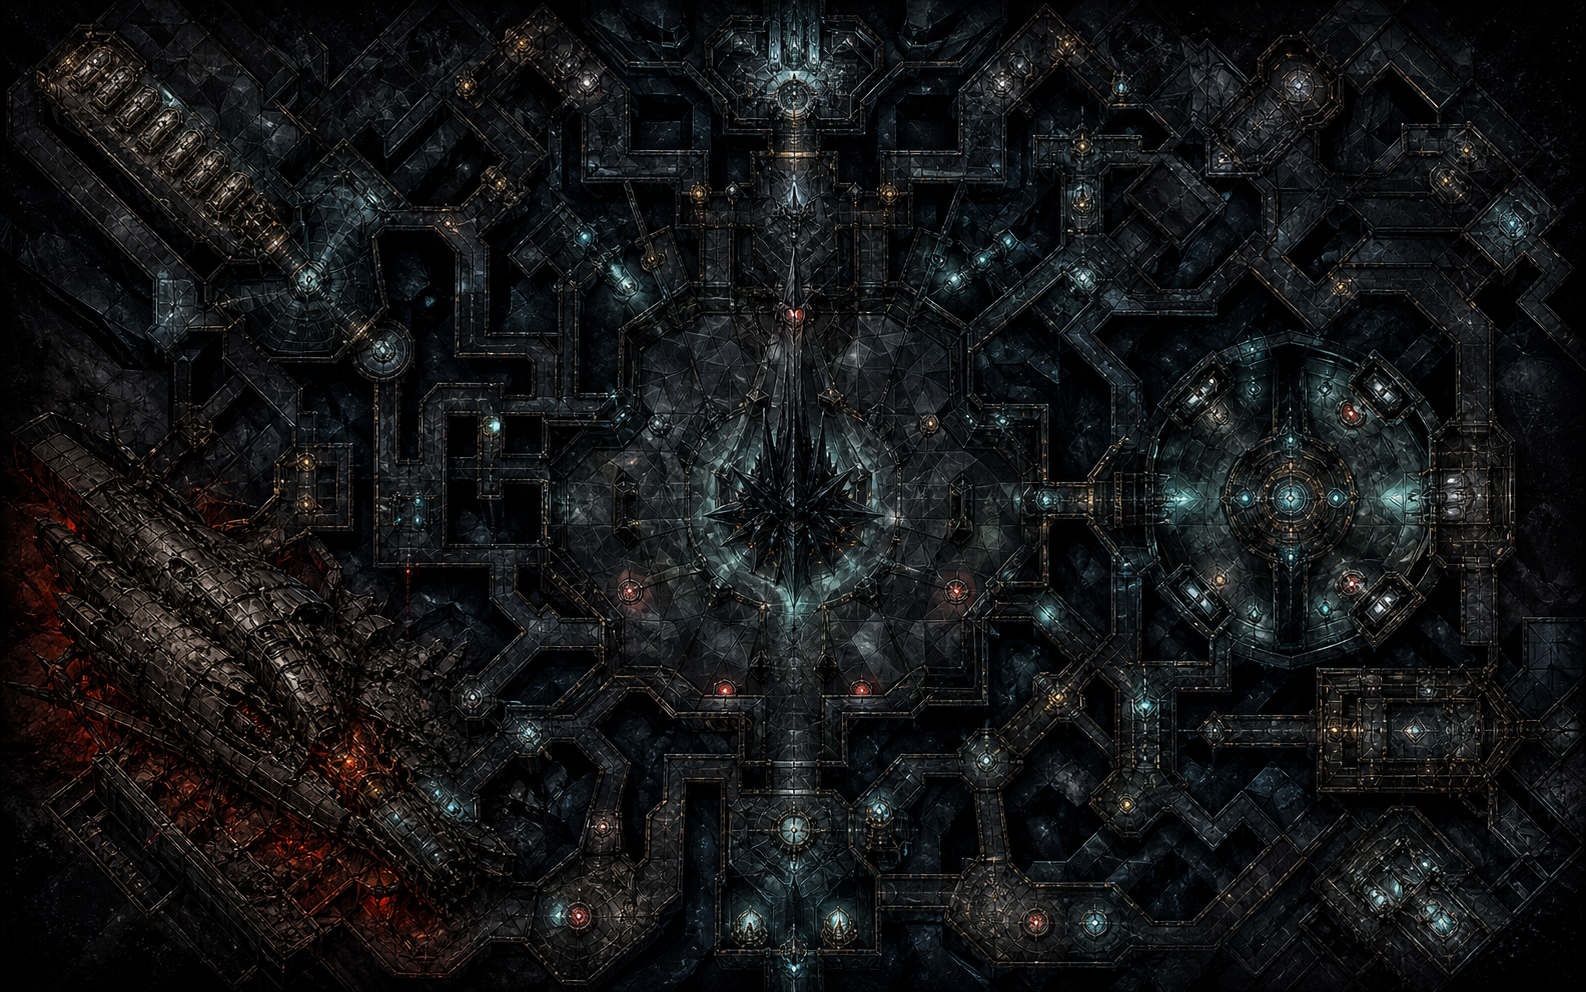
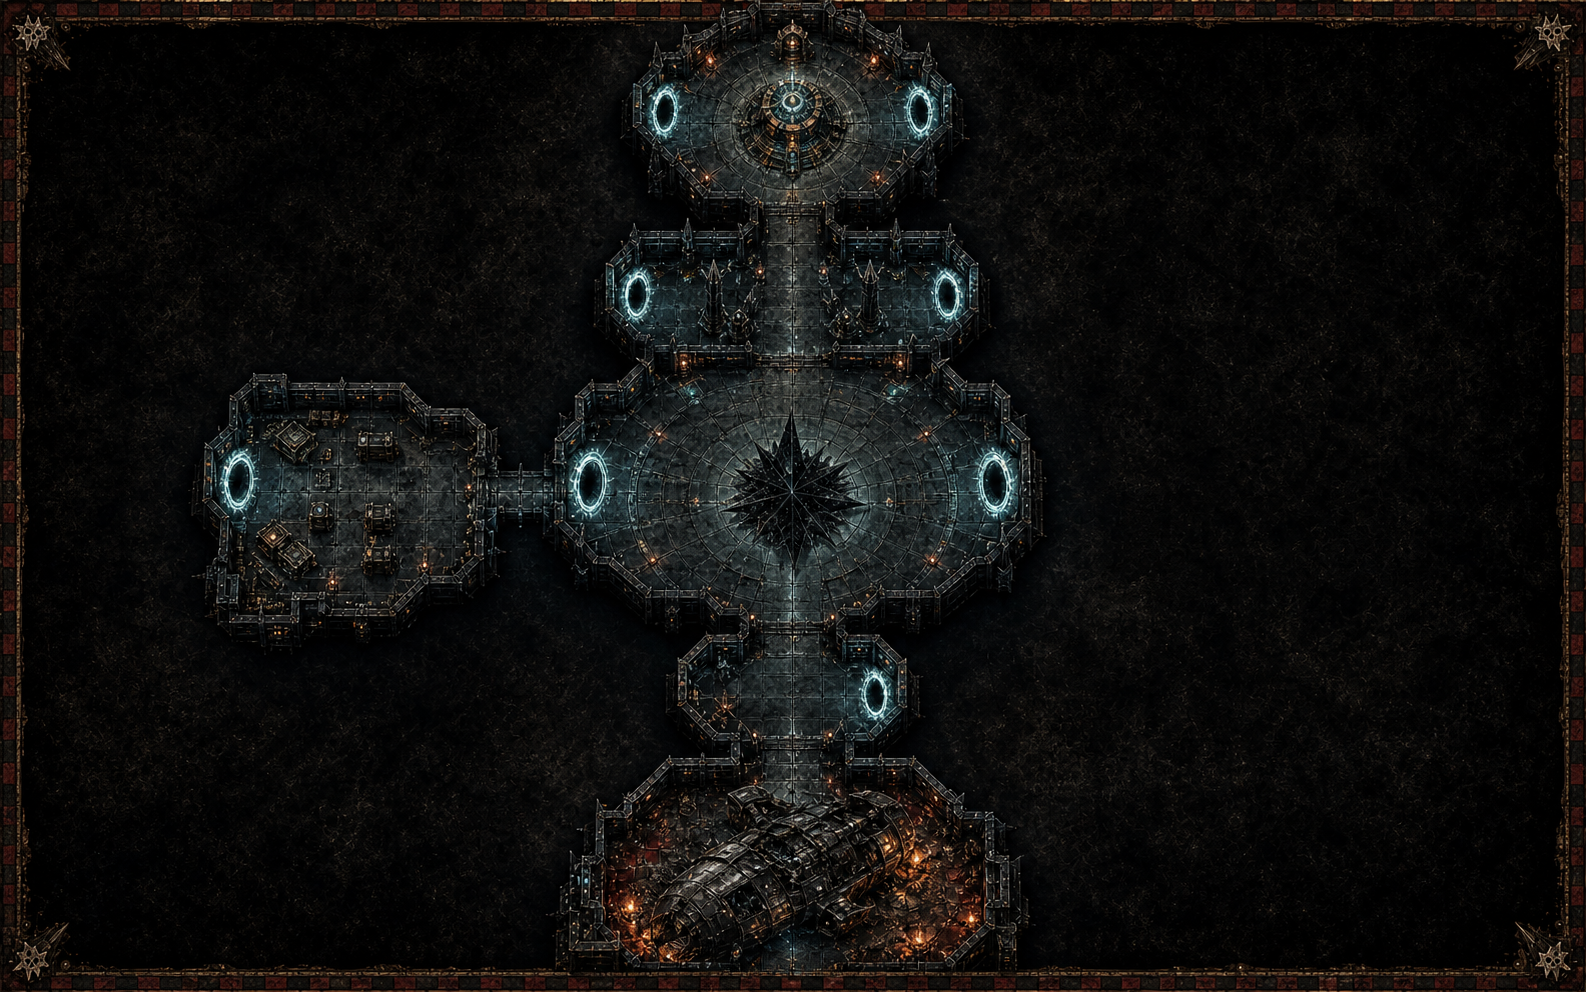
Ch.9: new static play-board battle map + architecture room/portal labels

diff --git a/index.html b/index.html
@@ -867,7 +867,7 @@
     <blockquote>Stranded in the belly of a Blackstone Fortress with a dead ship, the whole Covenant must push to the heart of the labyrinth for the one archeotech core that can carry them home — and fight their way back out as the dark floods with everything the Fortress can wake.</blockquote>
   </div>
   <figure class="art-slot art-slot--scene"><div class="art-frame"><img src="assets/ch09-scene.png" alt="A black-glass Blackstone labyrinth surrounds explorers and an ancient power core." loading="lazy"></div><figcaption>Chapter IX scene illustration</figcaption></figure>
-  <figure class="art-slot art-slot--map art-slot--labelled-map"><div class="art-frame"><img src="assets/ch09-map.png" alt="Top-down battle map of the Blackstone Fortress labyrinth, Spindle, vault galleries, core chamber, and wreck." loading="lazy"><div class="map-labels" aria-hidden="true"><span style="left:18%;top:77%">Wreck of Gnashrak's Maw</span><span style="left:30%;top:39%">Outer Labyrinth</span><span style="left:52%;top:48%">The Spindle</span><span style="left:74%;top:39%">Vault Galleries</span><span style="left:78%;top:72%">Core Chamber</span></div></div><figcaption>Chapter IX tabletop battle map</figcaption></figure>
+  <figure class="art-slot art-slot--map art-slot--labelled-map"><div class="art-frame"><img src="assets/ch09-map.png" alt="Top-down Blackstone Fortress play-board: the gunship wreck, threshold hall, central Spindle, vault galleries branch, the Choir, and the Core Vault, with eight glowing reinforcement portals." loading="lazy"><div class="map-labels" aria-hidden="true"><span style="left:51%;top:6%">Core Vault</span><span style="left:51%;top:28%">The Choir</span><span style="left:51%;top:57%">The Spindle</span><span style="left:21%;top:50%">Vault Galleries</span><span style="left:43%;top:71%">Threshold Hall</span><span style="left:50%;top:87%">The Wreck</span></div></div><figcaption>Chapter IX tabletop battle map</figcaption></figure>
   <article class="markdown-body chapter-body">
     <h3 id="where-we-are">Where we are</h3>
 <p>The campaign's climax. <em>Gnashrak's Maw</em> lies wrecked inside the <strong>Blackstone Fortress</strong> (Ch.8), its warp-drive dead. The only thing that can revive it is an <strong>archeotech power core</strong> held in a vault at the Fortress's heart. Everything the Covenant has become is spent here, together, one last time — <strong>every operative still alive deploys.</strong> This is the muster: all three teams, one board, one push.</p>